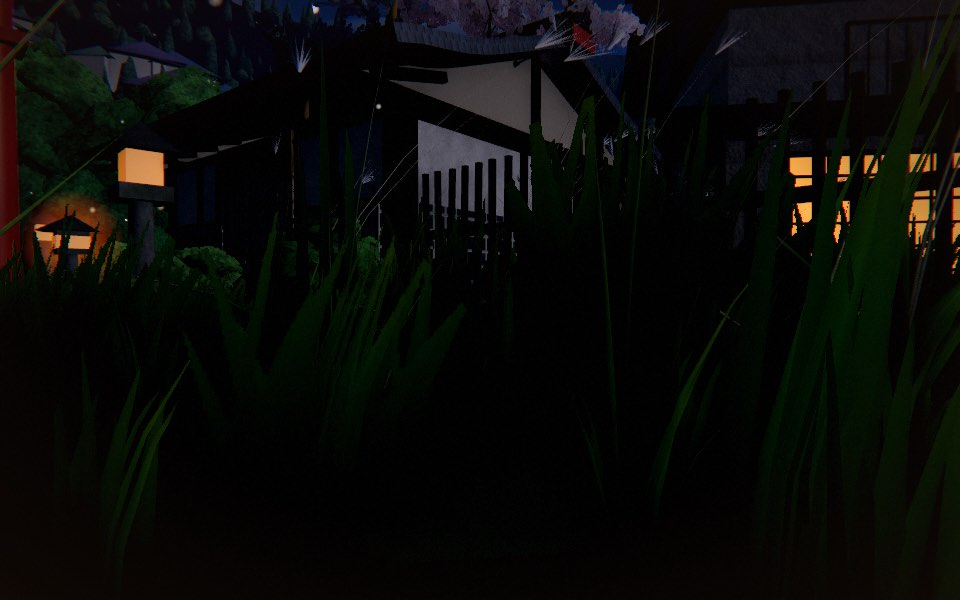
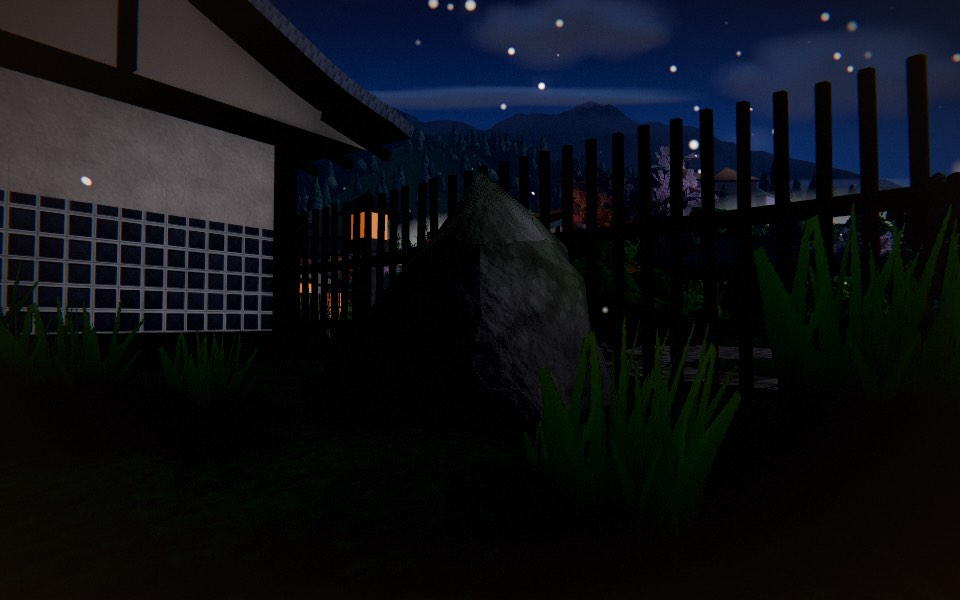
v-rocks fix round 1: valid path-boulders compares, key rock height matches classic

diff --git a/src/kit/rocks/index.js b/src/kit/rocks/index.js
@@ -31,6 +31,7 @@ function buildPathBoulders(ctx, layout, p) {
   (layout.rocks || []).forEach(({ s, mat, position, scale, rotation }, i) => {
     const pool = s > 0.5 ? bigV : smallV;
     const geo = pool[i % pool.length];
+    // rotation arrives as 0..PI Euler angles; fold to a +-0.16 rad lean so stones stay seated
     const tilt = [(rotation[0] % Math.PI - Math.PI / 2) * 0.1, rotation[1], (rotation[2] % Math.PI - Math.PI / 2) * 0.1];
     // half extents ~ the classic dodecahedron's, so the collider footprint fits
     const k = p.size, sc = [scale[0] * 0.95 * k, scale[1] * 1.0 * k, scale[2] * 0.95 * k];
@@ -55,7 +56,7 @@ function buildPathBoulders(ctx, layout, p) {
 
 // Classic: main dodecahedron r=0.78 (detail 1) scaled 1.35/1.0/0.9, centre y 0.58,
 // yaw 0.38; two low companions. Half extents below match their bounds.
-const MAIN = { half: [1.02, 0.78, 0.7], pos: [0, 0.64, 0], rot: [0.12, 0.38, -0.08] };
+const MAIN = { half: [1.02, 0.78, 0.7], pos: [0, 0.58, 0], rot: [0.12, 0.38, -0.08] };
 const COMPANIONS = [
   { half: [0.3, 0.22, 0.3], pos: [-0.68, 0.165, 0.28], key: 'stone_a', mat: 'stone' },
   { half: [0.24, 0.18, 0.24], pos: [0.55, 0.132, 0.35], key: 'stone_b', mat: 'stone' }

diff --git a/docs/fable/status/v-rocks.md b/docs/fable/status/v-rocks.md
@@ -19,5 +19,11 @@ Model: Claude Sonnet 5.5 (resumed after a dead session). Base: fable/integration
 - Note: kit_test "kit_check passes on a clean fixture family" fails: its fixture inventory only lists torii/old-gate, so any real family besides shrine trips it. Not a rocks defect; test is outside my files.
 
 ## Judgement
-AAA-1: modular key rock reads as chiselled, mossed granite vs the classic smooth dark blob; same volume and silhouette. AAA-5: legible at cat height (0.35 m) and 2-3 m at 6/12/18/22 h; the key and its hiding anchor are untouched (layout position and name unchanged, no collider changed).
-Waivers: none (footprint is the layout's). Live meshes: 0. Merged materials: 0 new (km.rock variants only).
+Both assets now have valid L6 pairs (8 per asset, all differ, swap confirmed by the shot log `swaps={"path-boulders":"modular"}`).
+- key-rock AAA-1: chiselled, mossed granite vs the classic smooth blob; same volume. AAA-5: legible at 0.35 m and 2-3 m, 6/12/18/22 h; the key stays visible.
+- path-boulders (big stone s>0.5 at -4.8,17.7, beside the machiya fence) AAA-1: facets, moss and weathering read well at dawn/noon/dusk; at 22 h both are dark but the modular silhouette is still legible. Silhouette is slightly narrower and more peaked than the classic dodecahedron (fitted to the same half extents). AAA-5: legible at cat height.
+Key rock main now sits at y 0.58 like classic (was 0.64). Anchor proof: secretKeyPos (-23.5,0.55,-21.5) and all 25 anchors, all 518 colliders and rng (valley 49233) are byte-equal between the classic digest and the modular-swap digest (compared with `JSON.stringify` of the two `--out` digests).
+Waivers: none. Live meshes: 0. New merged materials: 0.
+
+## Fix round 1
+- kit_check: All kit checks OK (37 passed). kit_contract_test --family rocks: 2 assets, 6 builds, 218 checks, 0 failed. footprint_golden classic: EQUAL. Modular swap: DIFFERENT only by replaced objects (21 removed, 8 added); colliders, anchors, rng equal. verify: All checks passed (kit_test 36/36 after merging 4de4ae0).
